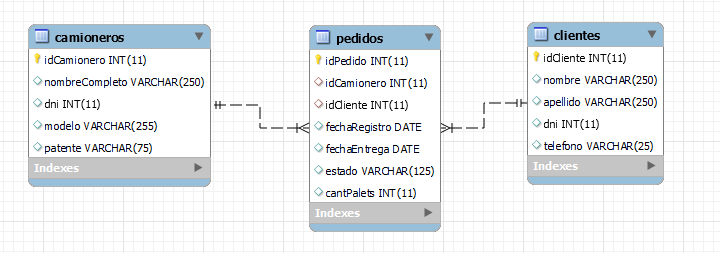
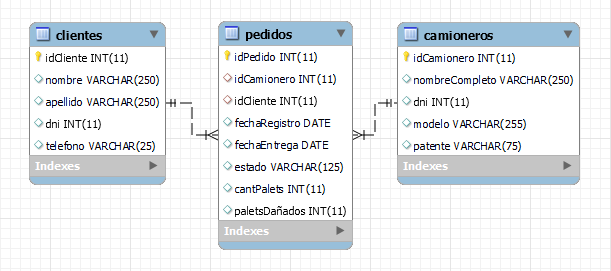
Add a new view

Changed region(s): [[0.0, 0.0, 1.0, 1.0]]

diff --git a/Software/templates/ver_pedidos.html b/Software/templates/ver_pedidos.html
@@ -5,13 +5,14 @@
 <table class="table table-bordered">
     <thead>
         <tr>
-            <th>ID Pedido</th>
+            <th>ID <br> Pedido</th>
             <th>Camionero</th>
             <th>Cliente</th>
-            <th>Fecha Registro</th>
-            <th>Fecha Entrega</th>
+            <th>Fecha <br> Registro</th>
+            <th>Fecha <br> Entrega</th>
             <th>Estado</th>
             <th>Palets</th>
+            <th>Palets <br> Dañados</th>
             <th>Acciones</th>
         </tr>
     </thead>
@@ -25,11 +26,16 @@
             <td>{{ pedido.fechaEntrega.strftime('%Y-%m-%d') }}</td>
             <td>{{ pedido.estado }}</td>
             <td>{{ pedido.cantPalets }}</td>
-            <td>
-                <a href="{{ url_for('actualizar_estado', idPedido=pedido.idPedido) }}" class="btn btn-sm btn-warning">Actualizar Estado</a>
-            </td>
+            <td>{{ pedido.paletsDañados }}</td>
+            <td><a href="{{ url_for('actualizar_estado', idPedido=pedido.idPedido) }}" class="btn btn-sm btn-warning">Actualizar</a>  <a href="{{ url_for('reportar_pedido', idPedido=pedido.idPedido) }}" class="btn btn-sm btn-warning" style="background-color: rgb(230, 64, 64) !important;">Reportar</a></td>
         </tr>
         {% endfor %}
     </tbody>
 </table>
+<style>
+    .table th {
+        text-align: center;
+        align-content: center;
+    }
+</style>
 {% endblock %}

diff --git a/Software/templates/reportar_pedido.html b/Software/templates/reportar_pedido.html
@@ -1,0 +1,16 @@
+{% extends 'base.html' %}
+
+{% block content %}
+<h2>Reportar pedido #{{ pedido.idPedido }}</h2>
+<form method="POST">
+    {{ form.hidden_tag() }}
+    <div class="form-group">
+        {{ form.cantPaq.label(class="form-control-label") }}
+        {{ form.cantPaq(class="form-control") }}
+    </div>
+    <div class="form-group">
+        {{ form.submit(class="btn btn-primary") }}
+        <a href="{{ url_for('ver_pedidos') }}" class="btn btn-secondary">Cancelar</a>
+    </div>
+</form>
+{% endblock %}

diff --git a/Software/templates/base.html b/Software/templates/base.html
@@ -6,7 +6,7 @@
     <link rel="stylesheet" href="https://stackpath.bootstrapcdn.com/bootstrap/4.5.0/css/bootstrap.min.css">
 </head>
 <body>
-    <div class="container mt-4">
+    <div class="container mt-4" style="max-width: 90%;">
         <nav class="navbar navbar-expand-lg navbar-light bg-light" style="background-color: rgb(201, 68, 68) !important; border-radius: 12px;">
             <a class="navbar-brand" href="{{ url_for('index') }}">Gestión de Pedidos</a>
             <div class="collapse navbar-collapse">

diff --git a/Software/templates/tomar_pedido.html b/Software/templates/tomar_pedido.html
@@ -17,8 +17,8 @@
         {{ form.fechaEntrega(class="form-control") }}
     </div>
     <div class="form-group">
-        {{ form.peso.label(class="form-control-label") }}
-        {{ form.peso(class="form-control") }}
+        {{ form.palets.label(class="form-control-label") }}
+        {{ form.palets(class="form-control") }}
     </div>
     <div class="form-group">
         {{ form.submit(class="btn btn-primary") }}

diff --git a/Software/app.py b/Software/app.py
@@ -1,15 +1,15 @@
-from wtforms import StringField, IntegerField, DateField, SelectField, SubmitField, TextAreaField
+from wtforms import StringField, IntegerField, DateField, SelectField, SubmitField
 from flask import Flask, render_template, request, redirect, url_for, flash
 from wtforms.validators import DataRequired
 from flask_sqlalchemy import SQLAlchemy
 from flask_wtf import FlaskForm
 import datetime
 
-#pip install Flask Flask_SQLAlchemy Flask_WTF mysql-connector-python
+#pip install Flask Flask_SQLAlchemy Flask_WTF 
 
 app = Flask(__name__)
 
-app.config['SECRET_KEY'] = 'ss'
+app.config['SECRET_KEY'] = 'zaza'
 app.config['SQLALCHEMY_DATABASE_URI'] = 'mysql+mysqlconnector://root@localhost/gestion_pedidos'
 app.config['SQLALCHEMY_TRACK_MODIFICATIONS'] = False
 
@@ -42,6 +42,7 @@ class Pedido(db.Model):
     fechaEntrega = db.Column(db.Date, nullable=False)
     estado = db.Column(db.String(125), nullable=False, default='procesando')
     cantPalets = db.Column(db.String(125), nullable=False)
+    paletsDañados = db.Column(db.String(125), nullable=False)
 
 class CamioneroForm(FlaskForm):
     nombreCompleto = StringField('Nombre Completo', validators=[DataRequired()])
@@ -61,7 +62,7 @@ class PedidoForm(FlaskForm):
     idCamionero = SelectField('Camionero', coerce=int, validators=[DataRequired()])
     idCliente = SelectField('Cliente', coerce=int, validators=[DataRequired()])
     fechaEntrega = DateField('Fecha de Entrega', format='%Y-%m-%d', validators=[DataRequired()])
-    peso = StringField('Peso', validators=[DataRequired()])
+    palets = StringField('Palets', validators=[DataRequired()])
     submit = SubmitField('Tomar Pedido')
 
 class ActualizarEstadoForm(FlaskForm):
@@ -69,9 +70,14 @@ class ActualizarEstadoForm(FlaskForm):
         ('Procesando', 'Procesando'),
         ('En Camino', 'En Camino'),
         ('Demorado', 'Demorado'),
-        ('Entregado', 'Entregado')
+        ('Entregado', 'Entregado'),
+        ('Rechazado', 'Rechazado')
     ], validators=[DataRequired()])
     submit = SubmitField('Actualizar Estado')
+
+class ReportarPedido(FlaskForm):
+    cantPaq = IntegerField('Cantidad de palets en mal estado', validators=[DataRequired()])
+    submit = SubmitField('Reportar pedido')
 
 @app.route('/')
 def index():
@@ -81,13 +87,13 @@ def index():
 def registrar_camionero():
     form = CamioneroForm()
     if form.validate_on_submit():
-        nuevo_camionero = Camionero(
+        nuevoCamionero = Camionero(
             nombreCompleto=form.nombreCompleto.data,
             dni=form.dni.data,
             modelo=form.modelo.data,
             patente=form.patente.data
         )
-        db.session.add(nuevo_camionero)
+        db.session.add(nuevoCamionero)
         db.session.commit()
         flash('Camionero registrado exitosamente', 'success')
         return redirect(url_for('index'))
@@ -97,13 +103,13 @@ def registrar_camionero():
 def registrar_cliente():
     form = ClienteForm()
     if form.validate_on_submit():
-        nuevo_cliente = Cliente(
+        nuevoCliente = Cliente(
             nombre=form.nombre.data,
             apellido=form.apellido.data,
             dni=form.dni.data,
             telefono=form.telefono.data
         )
-        db.session.add(nuevo_cliente)
+        db.session.add(nuevoCliente)
         db.session.commit()
         flash('Cliente registrado exitosamente', 'success')
         return redirect(url_for('index'))
@@ -115,14 +121,14 @@ def tomar_pedido():
     form.idCamionero.choices = [(c.idCamionero, c.nombreCompleto) for c in Camionero.query.all()]
     form.idCliente.choices = [(c.idCliente, f"{c.nombre} {c.apellido}") for c in Cliente.query.all()]
     if form.validate_on_submit():
-        nuevo_pedido = Pedido(
+        nuevoPedido = Pedido(
             idCamionero=form.idCamionero.data,
             idCliente=form.idCliente.data,
             fechaEntrega=form.fechaEntrega.data,
-            peso=form.peso.data,
+            cantPalets=form.palets.data,
             estado='Procesando'
         )
-        db.session.add(nuevo_pedido)
+        db.session.add(nuevoPedido)
         db.session.commit()
         flash('Pedido tomado exitosamente', 'success')
         return redirect(url_for('index'))
@@ -137,12 +143,32 @@ def ver_pedidos():
 def actualizar_estado(idPedido):
     pedido = Pedido.query.get_or_404(idPedido)
     form = ActualizarEstadoForm(obj=pedido)
+    if pedido.estado == 'Entregado':
+        flash('El pedido ya fue entregado, no se puede actualizar.', 'info')
+        return redirect(url_for('ver_pedidos'))
+    
+    if pedido.estado == 'Rechazado':
+        flash('El pedido fue Rechazado, no se puede actualizar.', 'info')
+        return redirect(url_for('ver_pedidos'))
+    
     if form.validate_on_submit():
         pedido.estado = form.estado.data
         db.session.commit()
-        flash('Estado del pedido actualizado exitosamente', 'success')
+        flash('Estado del pedido actualizado con exito.', 'success')
         return redirect(url_for('ver_pedidos'))
     return render_template('actualizar_estado.html', form=form, pedido=pedido)
+
+@app.route('/reportar_pedido/<int:idPedido>', methods=['GET','POST'])
+def reportar_pedido(idPedido):
+    pedido = Pedido.query.get_or_404(idPedido)
+    form = ReportarPedido(obj=pedido)
+    if form.validate_on_submit():
+        pedido.paletsDañados = pedido.paletsDañados + form.cantPaq.data
+        pedido.cantPalets = pedido.cantPalets - form.cantPaq.data
+        db.session.commit()
+        flash('Se reporto el pedido con exito.', 'info')
+        return redirect(url_for('ver_pedidos'))
+    return render_template('reportar_pedido.html', form=form, pedido=pedido)
 
 if __name__ == '__main__':
     app.run(debug=True)
